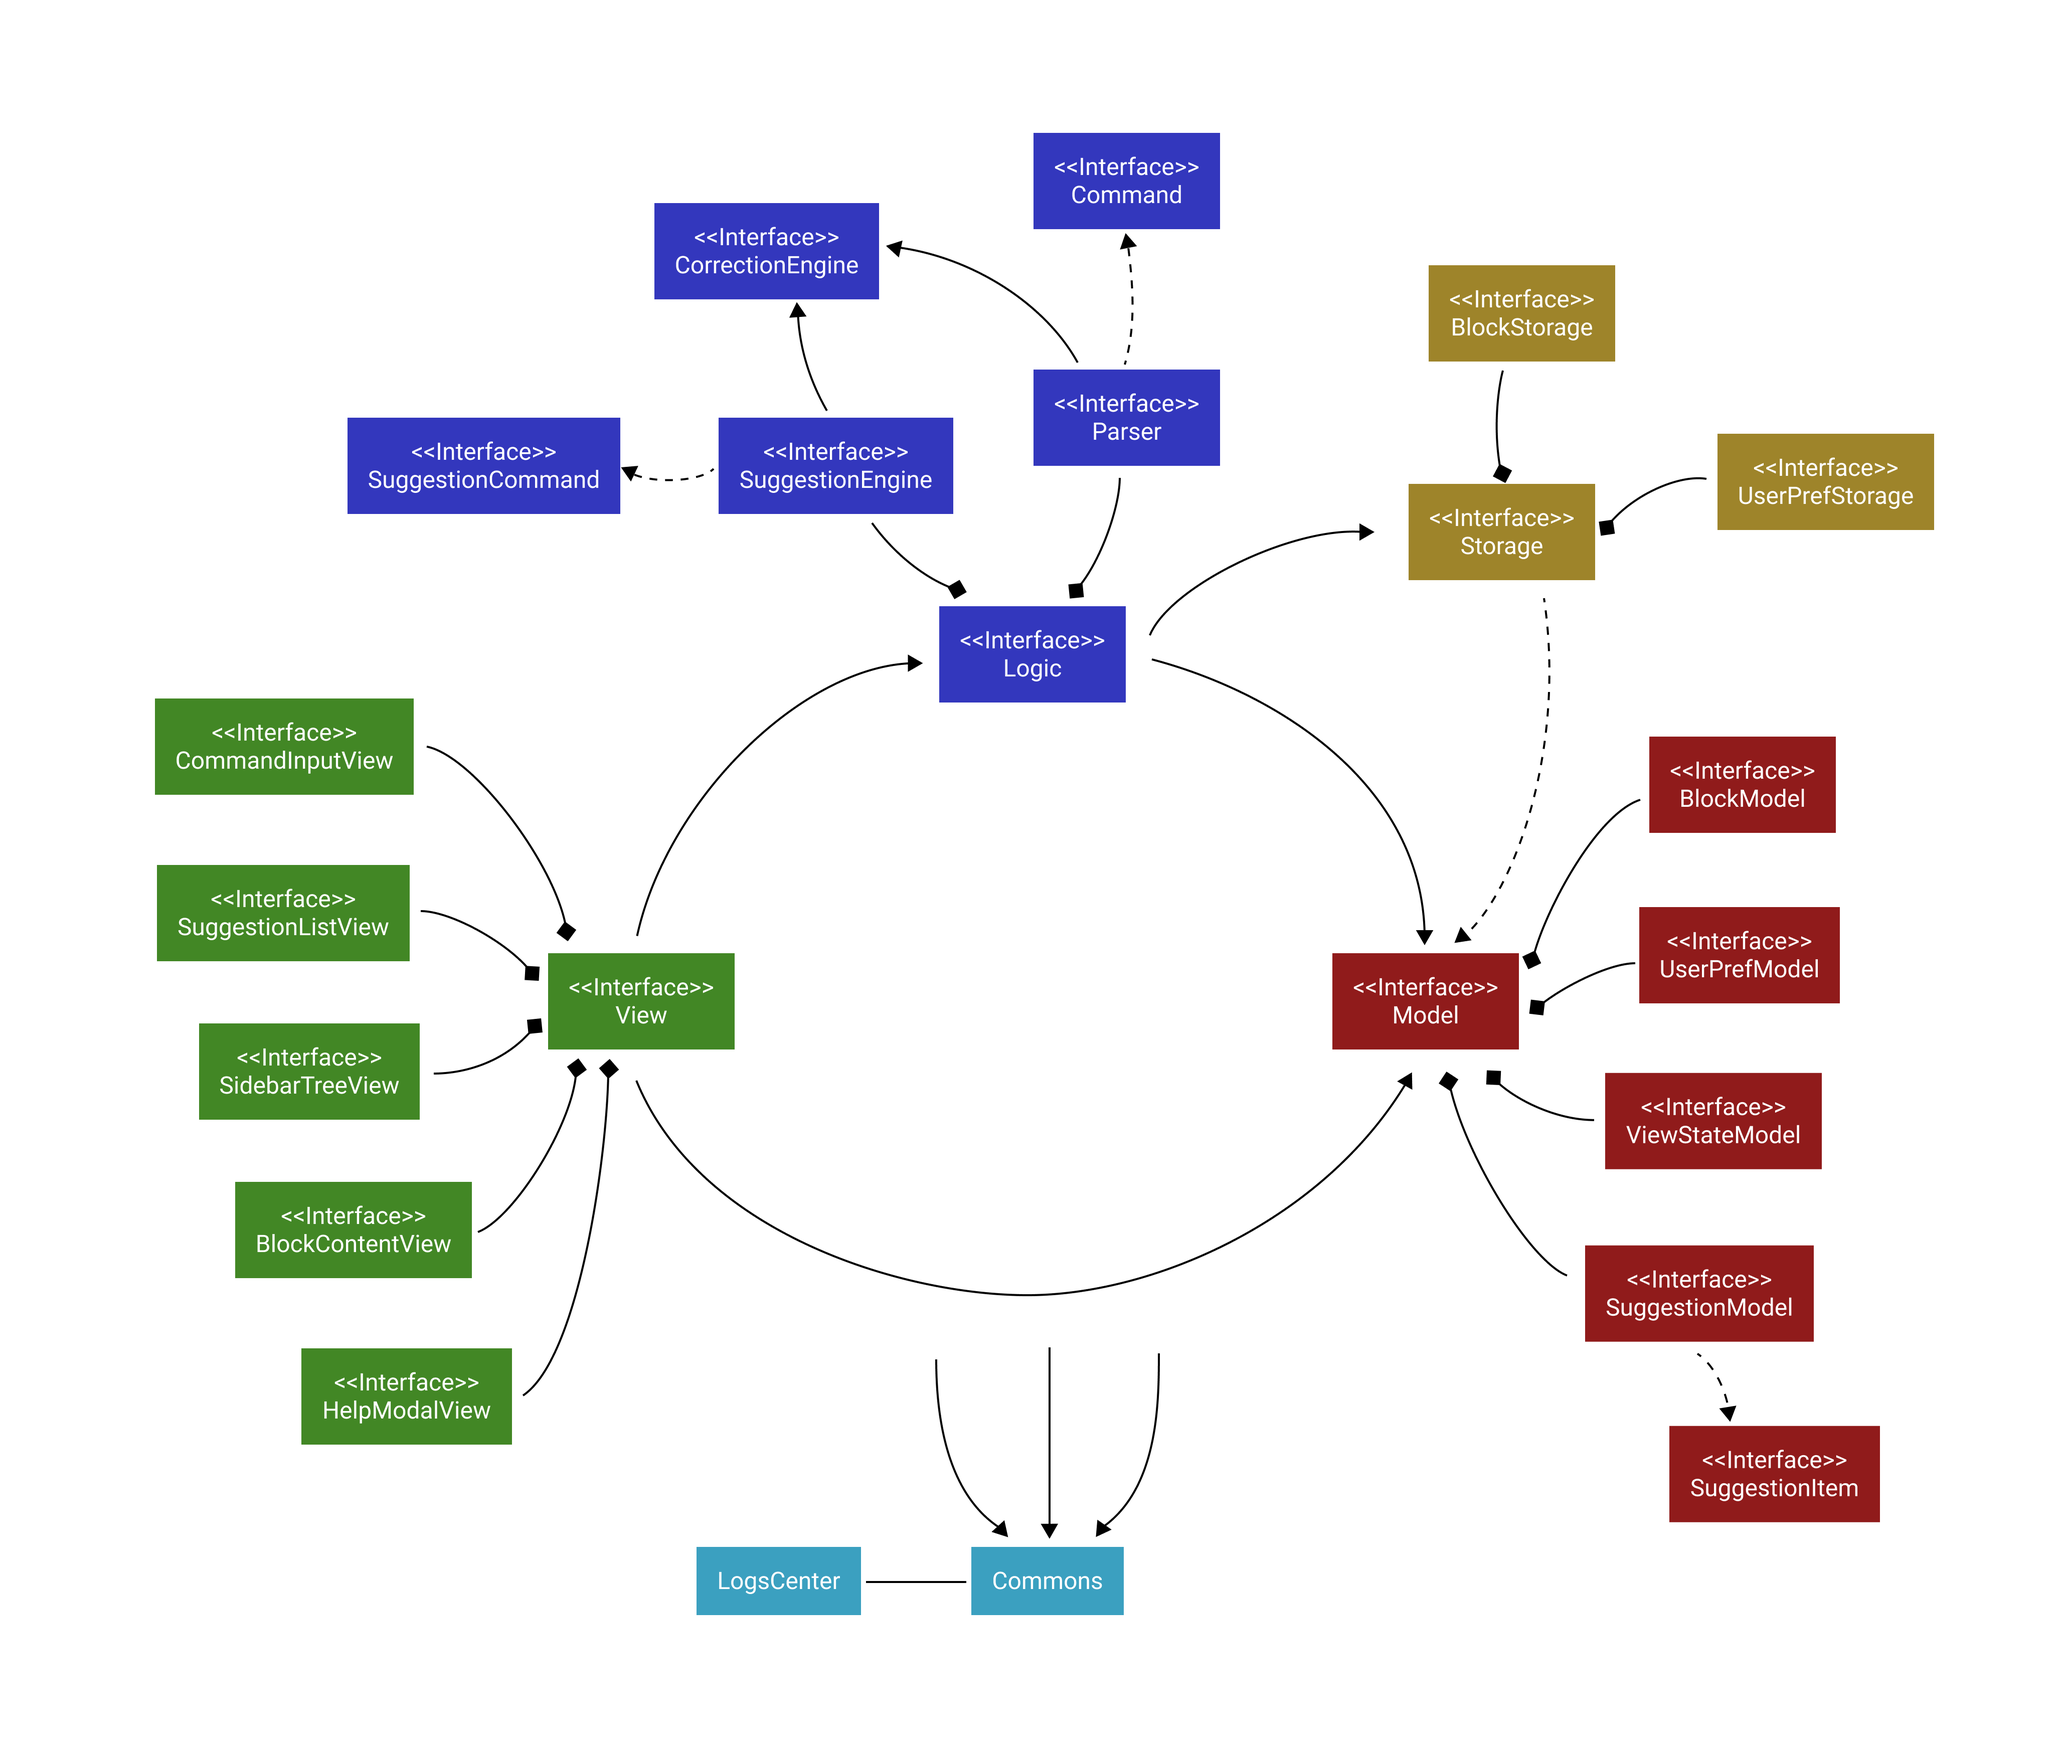
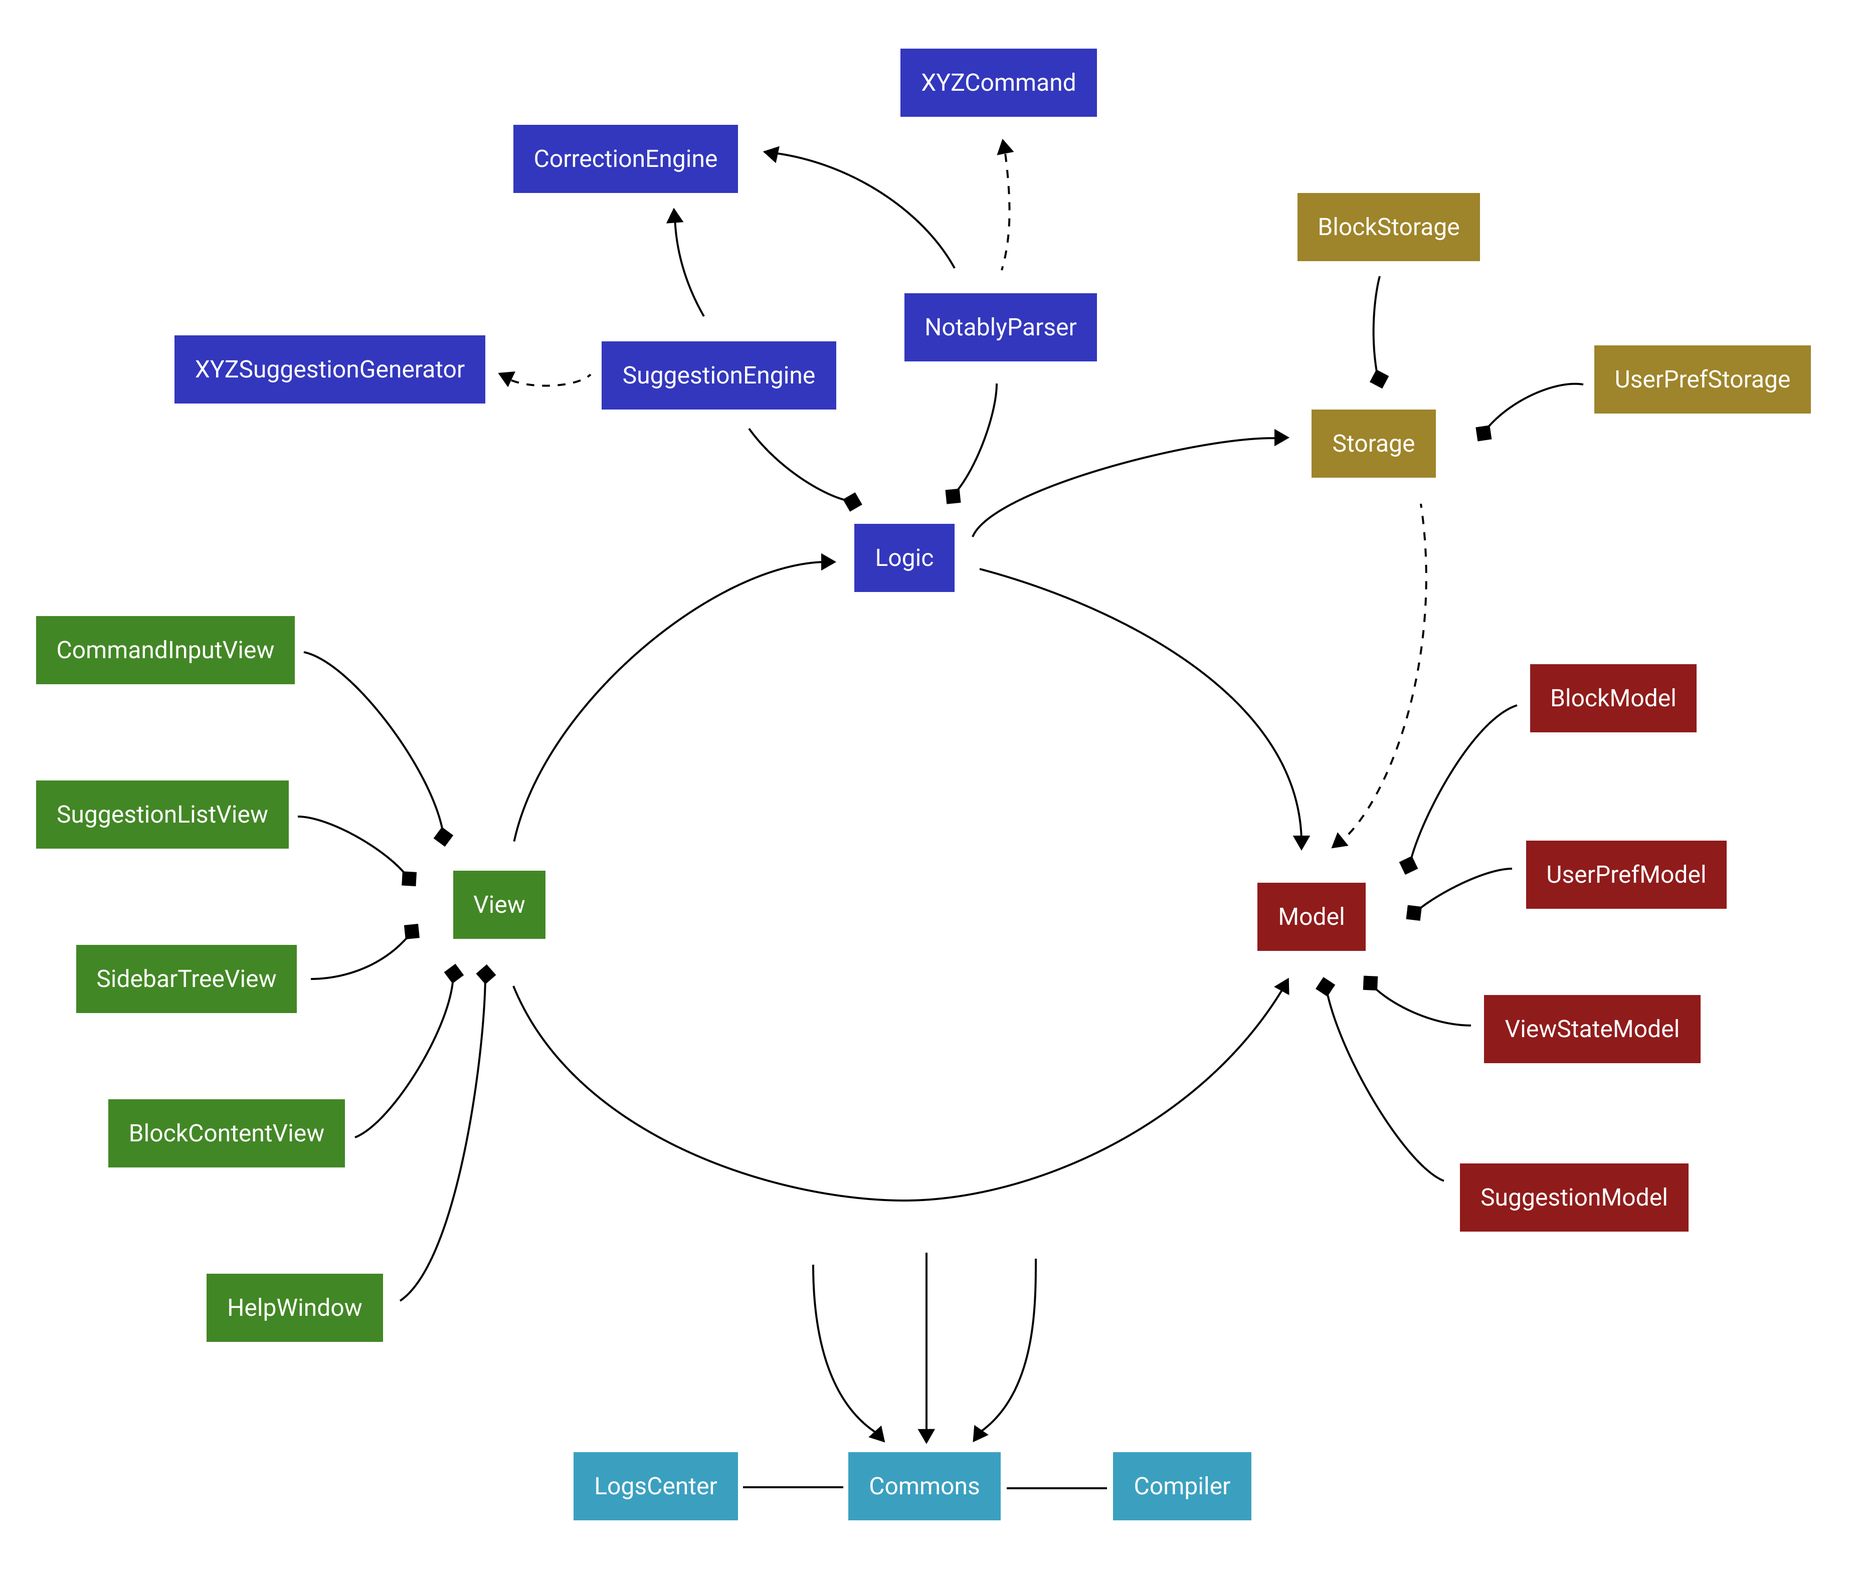
Rebuild pages at 10267c0494bf7e58bd9c8e7f198bb7f9209631e2

diff --git a/DeveloperGuide.html b/DeveloperGuide.html
@@ -82,21 +82,23 @@ Refer to the <a href="UsingPlantUml.html">Using PlantUML guide</a> to learn how 
 <div class="sect3">
 <h4 id="design-pattern-and-data-flow"><a class="link" href="#design-pattern-and-data-flow">2.1.1. Design pattern and data flow</a></h4>
 <div class="paragraph">
-<p>The App is built following the <a href="https://en.wikipedia.org/wiki/Model%E2%80%93view%E2%80%93controller">Model-View-Controller</a> design pattern.</p>
+<p>The App is built following the <a href="https://en.wikipedia.org/wiki/Model%E2%80%93view%E2%80%93controller">Model-View-Controller design pattern</a>.</p>
 </div>
 <div class="paragraph">
-<p>In addition, the App&#8217;s data flow is unidirectional. That is, all user interactions in <code>View</code> will trigger an appropriate handler in <code>Logic</code>, which in turn updates <code>Model</code> and <code>Storage</code>.
-Any data/state changes in <code>Model</code> will then propagate back to <code>View</code> automatically through <a href="https://docs.oracle.com/javafx/2/binding/jfxpub-binding.htm">JavaFX&#8217;s Property and Binding</a>.</p>
+<p>In addition, the App&#8217;s data flow is unidirectional. That is, all user interactions in <a href="#Design-View"><strong><code>View</code></strong></a> will trigger an appropriate handler in <a href="#Design-Logic"><strong><code>Logic</code></strong></a>, which in turn updates <a href="#Design-Model"><strong><code>Model</code></strong></a> and <a href="#Design-Storage"><strong><code>Storage</code></strong></a>.</p>
+</div>
+<div class="paragraph">
+<p>Any data/state changes in <a href="#Design-Model"><strong><code>Model</code></strong></a> will then propagate back to <a href="#Design-View"><strong><code>View</code></strong></a> automatically through <a href="https://docs.oracle.com/javafx/2/binding/jfxpub-binding.htm">JavaFX&#8217;s Property and Binding</a>. In other words, the <a href="https://en.wikipedia.org/wiki/Observer_pattern">Observer design pattern</a> is employed; <a href="#Design-Model"><strong><code>Model</code></strong></a> is the observable while <a href="#Design-View"><strong><code>View</code></strong></a> is the observer.</p>
 </div>
 <div class="paragraph">
 <p>In short, the App&#8217;s data flow can be summarized as:<br>
-<code>View</code> &#8594; <code>Logic</code> &#8594; <code>Model</code> + <code>Storage</code> &#8594; <code>View</code></p>
+<a href="#Design-View"><strong><code>View</code></strong></a> &#8594; <a href="#Design-Logic"><strong><code>Logic</code></strong></a> &#8594; <a href="#Design-Model"><strong><code>Model</code></strong></a> + <a href="#Design-Storage"><strong><code>Storage</code></strong></a> &#8594; <a href="#Design-View"><strong><code>View</code></strong></a></p>
 </div>
 </div>
 <div class="sect3">
 <h4 id="architecture-level-components"><a class="link" href="#architecture-level-components">2.1.2. Architecture-level components</a></h4>
 <div class="paragraph">
-<p>Overall, the App consists of four components:</p>
+<p>Overall, the App consists of five main components:</p>
 </div>
 <div class="ulist">
 <ul>
@@ -112,46 +114,48 @@ Any data/state changes in <code>Model</code> will then propagate back to <code>V
 <li>
 <p><a href="#Design-Storage"><strong><code>Storage</code></strong></a>: Reads data from, and writes data to, the hard disk.</p>
 </li>
+<li>
+<p><a href="#Design-Commons"><strong><code>Commons</code></strong></a>: A collection of classes used by multiple other components.</p>
+</li>
 </ul>
 </div>
 <div class="paragraph">
-<p>In addition, <a href="#Design-Commons"><strong><code>Commons</code></strong></a> represents a collection of classes used by multiple other components.
-The following class plays an important role at the architecture level:</p>
+<p>The first four components, namely <a href="#Design-View"><strong><code>View</code></strong></a>, <a href="#Design-Logic"><strong><code>Logic</code></strong></a>, <a href="#Design-Model"><strong><code>Model</code></strong></a> and <a href="#Design-Storage"><strong><code>Storage</code></strong></a>:</p>
+</div>
+<div class="ulist">
+<ul>
+<li>
+<p>Defines its <em>API</em> in an <code>interface</code> with the same name as the itself, e.g. <a href="https://github.com/AY1920S2-CS2103T-W17-2/main/src/main/java/com/notably/logic/Logic.java"><code>Logic.java</code></a></p>
+</li>
+<li>
+<p>Exposes its functionality using a <code>{Component Name}Manager</code> class, e.g. <a href="https://github.com/AY1920S2-CS2103T-W17-2/main/src/main/java/com/notably/logic/LogicManager.java"><code>LogicManager.java</code></a></p>
+</li>
+</ul>
+</div>
+<div class="paragraph">
+<p>The following classes from <a href="#Design-Commons"><strong><code>Commons</code></strong></a> plays an important role at the architecture level:</p>
 </div>
 <div class="ulist">
 <ul>
 <li>
 <p><code>LogsCenter</code> : Used by many classes to write log messages to the App&#8217;s log file.</p>
 </li>
-</ul>
-</div>
-<div class="paragraph">
-<p>Each of the four components:</p>
-</div>
-<div class="ulist">
-<ul>
 <li>
-<p>Defines its <em>API</em> in an <code>interface</code> with the same name as the Component.</p>
-</li>
-<li>
-<p>Exposes its functionality using a <code>{Component Name}Manager</code> class.</p>
+<p><a href="#Design-Compiler"><strong><code>Compiler</code></strong></a> : Used mainly by the <a href="#Design-View"><strong><code>View</code></strong></a> to compile Markdown to HTML for displaying notes.</p>
 </li>
 </ul>
-</div>
-<div class="paragraph">
-<p>For example, the <code>Logic</code> component defines it&#8217;s API in the <code>Logic.java</code> interface and exposes its functionality using the <code>LogicManager.java</code> class.</p>
 </div>
 </div>
 <div class="sect3">
 <h4 id="how-the-architecture-components-interact-with-each-other"><a class="link" href="#how-the-architecture-components-interact-with-each-other">2.1.3. How the architecture components interact with each other</a></h4>
 <div class="paragraph">
-<p>The <em>Sequence Diagram</em> below shows how the components interact with each other for the scenario where the user issues the command <code>new -t Notably -b Lorem ipsum</code>.</p>
+<p>The <em>Sequence Diagram</em> below shows how the components interact with each other for the scenario where the user issues the command <code>new -t Notably</code>.</p>
 </div>
 <div class="imageblock">
 <div class="content">
 <img src="images/ArchitectureSequenceDiagram.png" alt="ArchitectureSequenceDiagram">
 </div>
-<div class="title">Figure 2. Component interactions for the <code>new -t Notably -b Lorem ipsum</code> command</div>
+<div class="title">Figure 2. Component interactions for the <code>new -t Notably</code> command</div>
 </div>
 </div>
 </div>
@@ -1226,4 +1230,4 @@ Expected: The most recent window size and location is retained.</p>
 </div>
 </div>
 </div>
-</div></div><div id="footer"><div class="container"><div id="footer-text">Last updated 2020-04-13 10:55:34 UTC</div></div></div></body></html>
+</div></div><div id="footer"><div class="container"><div id="footer-text">Last updated 2020-04-13 11:14:29 UTC</div></div></div></body></html>

diff --git a/Documentation.html b/Documentation.html
@@ -210,4 +210,4 @@ You can modify them to change some properties of the site&#8217;s design.</p>
 These template files are written in a mixture of <a href="https://www.ruby-lang.org">Ruby</a> and <a href="http://slim-lang.com">Slim</a>.</p>
 </div>
 </div>
-</div></div><div id="footer"><div class="container"><div id="footer-text">Last updated 2020-04-13 10:55:34 UTC</div></div></div></body></html>
+</div></div><div id="footer"><div class="container"><div id="footer-text">Last updated 2020-04-13 11:14:29 UTC</div></div></div></body></html>

diff --git a/tutorials/RemovingFields.html b/tutorials/RemovingFields.html
@@ -175,4 +175,4 @@ While keeping the <code>address</code> field in the json files does not cause th
 <p>You can go through each individual <code>json</code> file and manually remove the <code>address</code> field.</p>
 </div>
 </div>
-</div></div><div id="footer"><div class="container"><div id="footer-text">Last updated 2020-04-13 10:55:34 UTC</div></div></div></body></html>
+</div></div><div id="footer"><div class="container"><div id="footer-text">Last updated 2020-04-13 11:14:29 UTC</div></div></div></body></html>

diff --git a/tutorials/AddRemark.html b/tutorials/AddRemark.html
@@ -616,4 +616,4 @@ In this case, <code>CommandTestUtil#assertCommandSuccess</code> is the best fit 
 <p>This concludes the tutorial for adding a new <code>Command</code> to AddressBook.</p>
 </div>
 </div>
-</div></div><div id="footer"><div class="container"><div id="footer-text">Last updated 2020-04-13 10:55:34 UTC</div></div></div></body></html>
+</div></div><div id="footer"><div class="container"><div id="footer-text">Last updated 2020-04-13 11:14:29 UTC</div></div></div></body></html>

diff --git a/Testing.html b/Testing.html
@@ -90,4 +90,4 @@ e.g. <code>com.notably.logic.LogicManagerTest</code></p>
 <div class="title">Figure 1. <code>Accessibility</code> permission is granted to <code>IntelliJ IDEA</code></div>
 </div>
 </div>
-</div></div><div id="footer"><div class="container"><div id="footer-text">Last updated 2020-04-13 10:55:34 UTC</div></div></div></body></html>
+</div></div><div id="footer"><div class="container"><div id="footer-text">Last updated 2020-04-13 11:14:29 UTC</div></div></div></body></html>

diff --git a/index.html b/index.html
@@ -82,4 +82,4 @@ Notably allows you to get your notes taken down faster than traditional GUI apps
 <div class="sectionbody">
 
 </div>
-</div></div><div id="footer"><div class="container"><div id="footer-text">Last updated 2020-04-13 10:55:34 UTC</div></div></div></body></html>
+</div></div><div id="footer"><div class="container"><div id="footer-text">Last updated 2020-04-13 11:14:29 UTC</div></div></div></body></html>

diff --git a/ContactUs.html b/ContactUs.html
@@ -12,4 +12,4 @@
 <p><strong>Email us</strong> : You can also reach us at <code>firzan.armani [at] u.nus.edu</code></p>
 </li>
 </ul>
-</div></div><div id="footer"><div class="container"><div id="footer-text">Last updated 2020-04-13 10:55:34 UTC</div></div></div></body></html>
+</div></div><div id="footer"><div class="container"><div id="footer-text">Last updated 2020-04-13 11:14:29 UTC</div></div></div></body></html>

diff --git a/SettingUp.html b/SettingUp.html
@@ -131,4 +131,4 @@ Do not disable them. If you have disabled them, go to <code>File</code> &gt; <co
 </div>
 </div>
 </div>
-</div></div><div id="footer"><div class="container"><div id="footer-text">Last updated 2020-04-13 10:55:34 UTC</div></div></div></body></html>
+</div></div><div id="footer"><div class="container"><div id="footer-text">Last updated 2020-04-13 11:14:29 UTC</div></div></div></body></html>

diff --git a/UserGuide.html b/UserGuide.html
@@ -970,4 +970,4 @@ More importantly, Notably is optimized for those who prefer to work with a Comma
 </div>
 </div>
 </div>
-</div></div><div id="footer"><div class="container"><div id="footer-text">Last updated 2020-04-13 10:55:34 UTC</div></div></div></body></html>
+</div></div><div id="footer"><div class="container"><div id="footer-text">Last updated 2020-04-13 11:14:29 UTC</div></div></div></body></html>

diff --git a/team/firzanarmani.html b/team/firzanarmani.html
@@ -949,4 +949,4 @@ Cons: Need to add constraint  to ensure that the root <code>BlockTreeItem</code>
 </div>
 </div>
 </div>
-</div></div><div id="footer"><div class="container"><div id="footer-text">Last updated 2020-04-13 10:55:34 UTC</div></div></div></body></html>
+</div></div><div id="footer"><div class="container"><div id="footer-text">Last updated 2020-04-13 11:14:29 UTC</div></div></div></body></html>

diff --git a/UsingGradle.html b/UsingGradle.html
@@ -228,4 +228,4 @@ See <code>build.gradle</code> &#8594; <code>allprojects</code> &#8594; <code>dep
 </ul>
 </div>
 </div>
-</div></div><div id="footer"><div class="container"><div id="footer-text">Last updated 2020-04-13 10:55:34 UTC</div></div></div></body></html>
+</div></div><div id="footer"><div class="container"><div id="footer-text">Last updated 2020-04-13 11:14:29 UTC</div></div></div></body></html>

diff --git a/UsingNetlify.html b/UsingNetlify.html
@@ -138,4 +138,4 @@ The publish directory is the directory in which the built HTML documentation res
 </ol>
 </div>
 </div>
-</div></div><div id="footer"><div class="container"><div id="footer-text">Last updated 2020-04-13 10:55:34 UTC</div></div></div></body></html>
+</div></div><div id="footer"><div class="container"><div id="footer-text">Last updated 2020-04-13 11:14:29 UTC</div></div></div></body></html>
